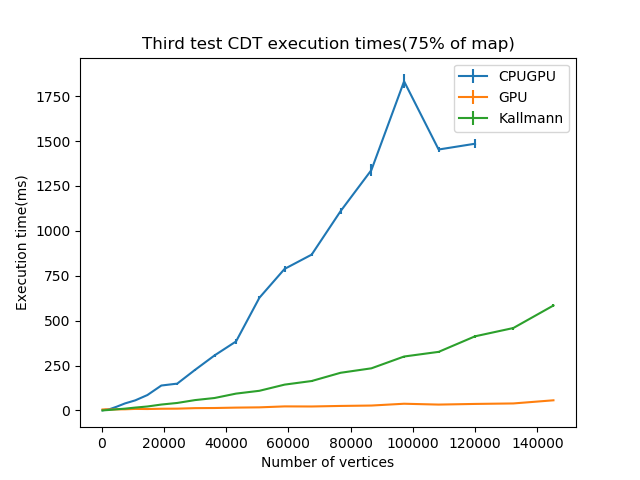
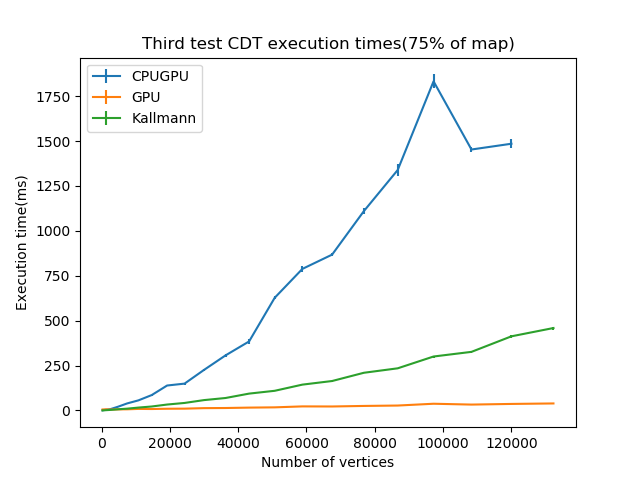
Small changes in plot script

diff --git a/GPU_LCT/GPU_LCT/pyplot/thesis_plots.py b/GPU_LCT/GPU_LCT/pyplot/thesis_plots.py
@@ -120,7 +120,7 @@ def get_results_from_file(file_name, max_vertex_count = -1):
                 iter_values[y_groups[2]].append(float(l[0]) + float(l[1]))
                 counter += 1
 
-    return y_labels, y_groups,  x_labels, std_dev, test_data
+    return [y_labels, y_groups,  x_labels, std_dev, test_data]
 
 def get_second_result_from_file(file_name):
     with open(file_name, "r") as file:
@@ -181,7 +181,7 @@ def make_second_test_plot(save_file, y_labels, std_dev, title1="CDT Shaders Perf
     ax.set_ylabel(y_axis_label)
     plt.subplots_adjust(bottom=0.25, hspace=0.95)
     #figure 1
-    shader_names = ["Locate\nStep 1", "Locate\nStep 2", "Marking\nStep 1", "Marking\nStep 2", "Flipping\nStep 1", "Flipping\nStep 2", "Flipping\nStep 3"]
+    shader_names = ["Locate\nStep", "Insertion\nStep", "Marking\nStep 1", "Marking\nStep 2", "Flipping\nStep 1", "Flipping\nStep 2", "Flipping\nStep 3"]
     ax1.title.set_text(title1)
     ax1.bar(shader_names, y_labels[:7], yerr=std_dev[:7])
     # fix x_labels settings
@@ -303,6 +303,15 @@ def createWilcoxonTableSmall(sample_list1, sample_list2, map_sizes, tex_file, sa
     f.write(table_end)
     f.close()
 
+def result_rm_end(res, remove = -1):
+    res[2] = res[2][:remove]
+    for test_type in res[1]:
+        res[0][test_type] = res[0][test_type][:remove]
+        res[3][test_type] = res[3][test_type][:remove]
+        res[4][test_type] = res[4][test_type][:remove]
+
+    return res
+
 # check for input parameters
 curr_i = 1
 while (curr_i != -1):
@@ -359,9 +368,9 @@ if(plots.get(3) is not None):
         third_CG_25_results = get_results_from_file(abs_path("third_test_CPUGPU-300-120000-v2-0.25.txt"))
         third_CG_50_results = get_results_from_file(abs_path("third_test_CPUGPU-300-120000-v2-0.50.txt"))
         third_CG_75_results = get_results_from_file(abs_path("third_test_CPUGPU-300-120000-v2-0.75.txt"))
-        third_G_25_results = get_results_from_file(abs_path("third_test_GPU-300-145200-v2-0.25.txt"))
-        third_G_50_results = get_results_from_file(abs_path("third_test_GPU-300-145200-v2-0.50.txt"))
-        third_G_75_results = get_results_from_file(abs_path("third_test_GPU-300-145200-v2-0.75.txt"))
+        third_G_25_results = result_rm_end(get_results_from_file(abs_path("third_test_GPU-300-145200-v2-0.25.txt")))
+        third_G_50_results = result_rm_end(get_results_from_file(abs_path("third_test_GPU-300-145200-v2-0.50.txt")))
+        third_G_75_results = result_rm_end(get_results_from_file(abs_path("third_test_GPU-300-145200-v2-0.75.txt")))
         third_kall_25_results = get_results_from_file(abs_path("third_test_CPU-300-270000-v0-0.25.txt", False), third_G_25_results[2][-1])
         third_kall_50_results = get_results_from_file(abs_path("third_test_CPU-300-270000-v0-0.50.txt", False), third_G_50_results[2][-1])
         third_kall_75_results = get_results_from_file(abs_path("third_test_CPU-300-270000-v0-0.75.txt", False), third_G_75_results[2][-1])
@@ -494,9 +503,9 @@ if(plots.get(4) is not None):
     third_CG_25_results = get_results_from_file(abs_path("third_test_CPUGPU-300-120000-v2-0.25.txt"))
     third_CG_50_results = get_results_from_file(abs_path("third_test_CPUGPU-300-120000-v2-0.50.txt"))
     third_CG_75_results = get_results_from_file(abs_path("third_test_CPUGPU-300-120000-v2-0.75.txt"))
-    third_G_25_results = get_results_from_file(abs_path("third_test_GPU-300-145200-v2-0.25.txt"))
-    third_G_50_results = get_results_from_file(abs_path("third_test_GPU-300-145200-v2-0.50.txt"))
-    third_G_75_results = get_results_from_file(abs_path("third_test_GPU-300-145200-v2-0.75.txt"))
+    third_G_25_results = result_rm_end(get_results_from_file(abs_path("third_test_GPU-300-145200-v2-0.25.txt")))
+    third_G_50_results = result_rm_end(get_results_from_file(abs_path("third_test_GPU-300-145200-v2-0.50.txt")))
+    third_G_75_results = result_rm_end(get_results_from_file(abs_path("third_test_GPU-300-145200-v2-0.75.txt")))
     third_kall_25_results = get_results_from_file(abs_path("third_test_CPU-300-270000-v0-0.25.txt", False), third_G_25_results[2][-1])
     third_kall_50_results = get_results_from_file(abs_path("third_test_CPU-300-270000-v0-0.50.txt", False), third_G_50_results[2][-1])
     third_kall_75_results = get_results_from_file(abs_path("third_test_CPU-300-270000-v0-0.75.txt", False), third_G_75_results[2][-1])

diff --git a/GPU_LCT/GPU_LCT/pyplot/Thesis_plots/Third_test_Full_MannWhitney_Full_LCT_GPU_Kallmann_0.25.tex b/GPU_LCT/GPU_LCT/pyplot/Thesis_plots/Third_test_Full_MannWhitney_Full_LCT_GPU_Kallmann_0.25.tex
@@ -22,5 +22,4 @@
 108300 & 100 & 5050.0 & 50.5 & 10000.0 & 100 & 15050.0 & 150.0 & 0.0 & 2.56E-34\\ \hline
 120000 & 100 & 5050.0 & 50.5 & 10000.0 & 100 & 15050.0 & 150.0 & 0.0 & 2.56E-34\\ \hline
 132300 & 100 & 15050.0 & 150.0 & 0.0 & 100 & 5050.0 & 50.5 & 10000.0 & 2.56E-34\\ \hline
-145200 & 100 & 5050.0 & 50.5 & 10000.0 & 100 & 15050.0 & 150.0 & 0.0 & 2.56E-34\\ \hline
 \end{tabular}

diff --git a/GPU_LCT/GPU_LCT/pyplot/Thesis_plots/Third_test_Full_MannWhitney_Full_LCT_GPU_Kallmann_0.50.tex b/GPU_LCT/GPU_LCT/pyplot/Thesis_plots/Third_test_Full_MannWhitney_Full_LCT_GPU_Kallmann_0.50.tex
@@ -22,5 +22,4 @@
 108300 & 100 & 5050.0 & 50.5 & 10000.0 & 100 & 15050.0 & 150.0 & 0.0 & 2.56E-34\\ \hline
 120000 & 100 & 5050.0 & 50.5 & 10000.0 & 100 & 15050.0 & 150.0 & 0.0 & 2.56E-34\\ \hline
 132300 & 100 & 5050.0 & 50.5 & 10000.0 & 100 & 15050.0 & 150.0 & 0.0 & 2.56E-34\\ \hline
-145200 & 100 & 5050.0 & 50.5 & 10000.0 & 100 & 15050.0 & 150.0 & 0.0 & 2.56E-34\\ \hline
 \end{tabular}

diff --git a/GPU_LCT/GPU_LCT/pyplot/Thesis_plots/Third_test_Full_MannWhitney_Full_LCT_GPU_Kallmann_0.75.tex b/GPU_LCT/GPU_LCT/pyplot/Thesis_plots/Third_test_Full_MannWhitney_Full_LCT_GPU_Kallmann_0.75.tex
@@ -22,5 +22,4 @@
 108300 & 100 & 5050.0 & 50.5 & 10000.0 & 100 & 15050.0 & 150.0 & 0.0 & 2.56E-34\\ \hline
 120000 & 100 & 5050.0 & 50.5 & 10000.0 & 100 & 15050.0 & 150.0 & 0.0 & 2.56E-34\\ \hline
 132300 & 100 & 5050.0 & 50.5 & 10000.0 & 100 & 15050.0 & 150.0 & 0.0 & 2.56E-34\\ \hline
-145200 & 100 & 5050.0 & 50.5 & 10000.0 & 100 & 15050.0 & 150.0 & 0.0 & 2.56E-34\\ \hline
 \end{tabular}

diff --git a/GPU_LCT/GPU_LCT/pyplot/Thesis_plots/Third_test_MannWhitney_Full_LCT_GPU_Kallmann_0.25.tex b/GPU_LCT/GPU_LCT/pyplot/Thesis_plots/Third_test_MannWhitney_Full_LCT_GPU_Kallmann_0.25.tex
@@ -19,5 +19,4 @@
 108300 & 50.5 & 150.0 & 2.56E-34\\ \hline
 120000 & 50.5 & 150.0 & 2.56E-34\\ \hline
 132300 & 150.0 & 50.5 & 2.56E-34\\ \hline
-145200 & 50.5 & 150.0 & 2.56E-34\\ \hline
 \end{tabular}

diff --git a/GPU_LCT/GPU_LCT/pyplot/Thesis_plots/Third_test_MannWhitney_Full_LCT_GPU_Kallmann_0.50.tex b/GPU_LCT/GPU_LCT/pyplot/Thesis_plots/Third_test_MannWhitney_Full_LCT_GPU_Kallmann_0.50.tex
@@ -19,5 +19,4 @@
 108300 & 50.5 & 150.0 & 2.56E-34\\ \hline
 120000 & 50.5 & 150.0 & 2.56E-34\\ \hline
 132300 & 50.5 & 150.0 & 2.56E-34\\ \hline
-145200 & 50.5 & 150.0 & 2.56E-34\\ \hline
 \end{tabular}

diff --git a/GPU_LCT/GPU_LCT/pyplot/Thesis_plots/Third_test_MannWhitney_Full_LCT_GPU_Kallmann_0.75.tex b/GPU_LCT/GPU_LCT/pyplot/Thesis_plots/Third_test_MannWhitney_Full_LCT_GPU_Kallmann_0.75.tex
@@ -19,5 +19,4 @@
 108300 & 50.5 & 150.0 & 2.56E-34\\ \hline
 120000 & 50.5 & 150.0 & 2.56E-34\\ \hline
 132300 & 50.5 & 150.0 & 2.56E-34\\ \hline
-145200 & 50.5 & 150.0 & 2.56E-34\\ \hline
 \end{tabular}
